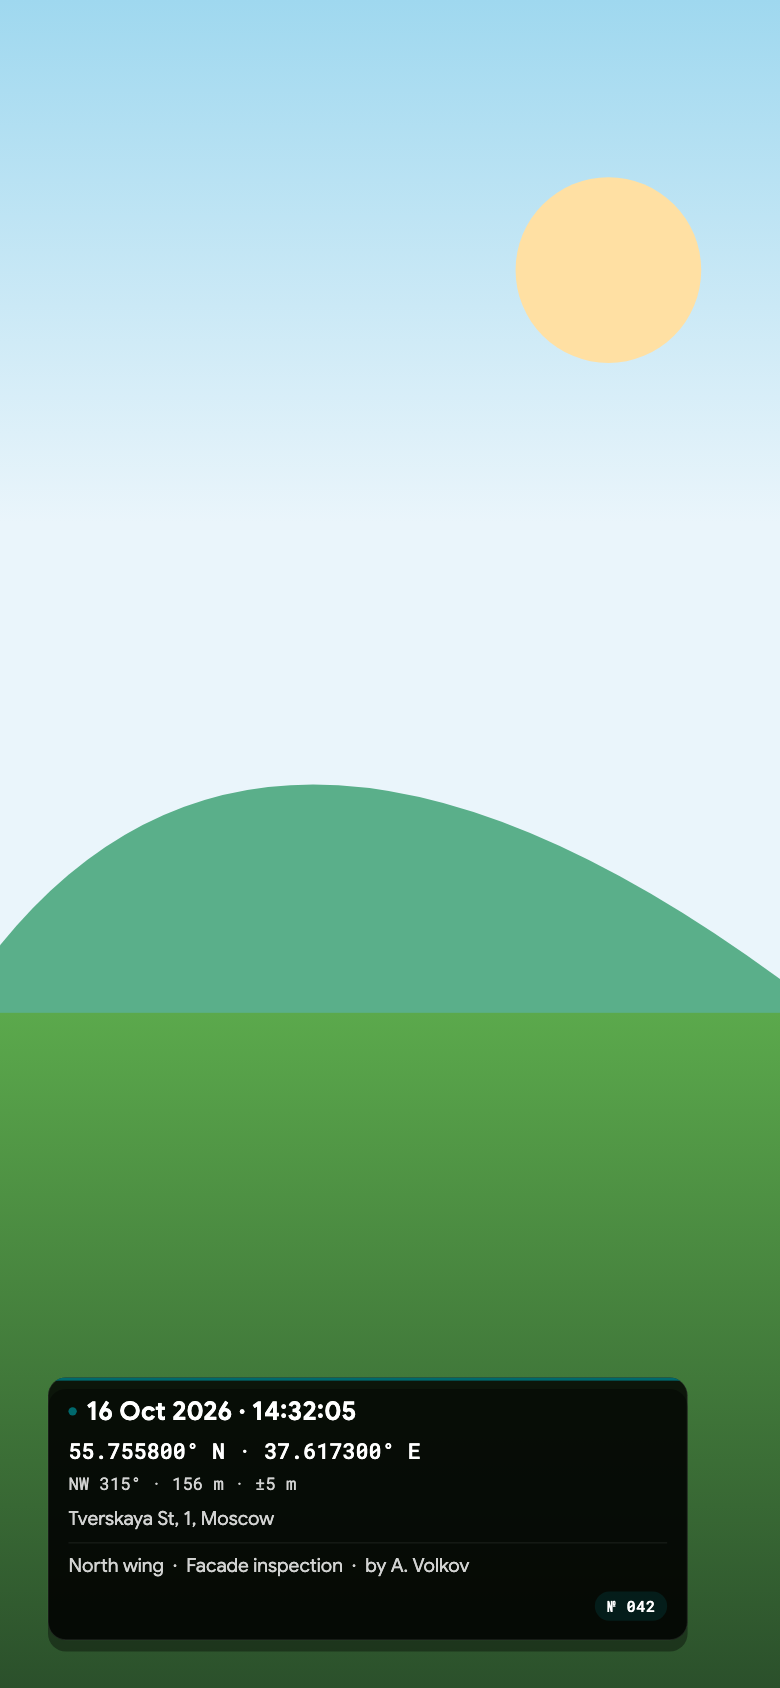
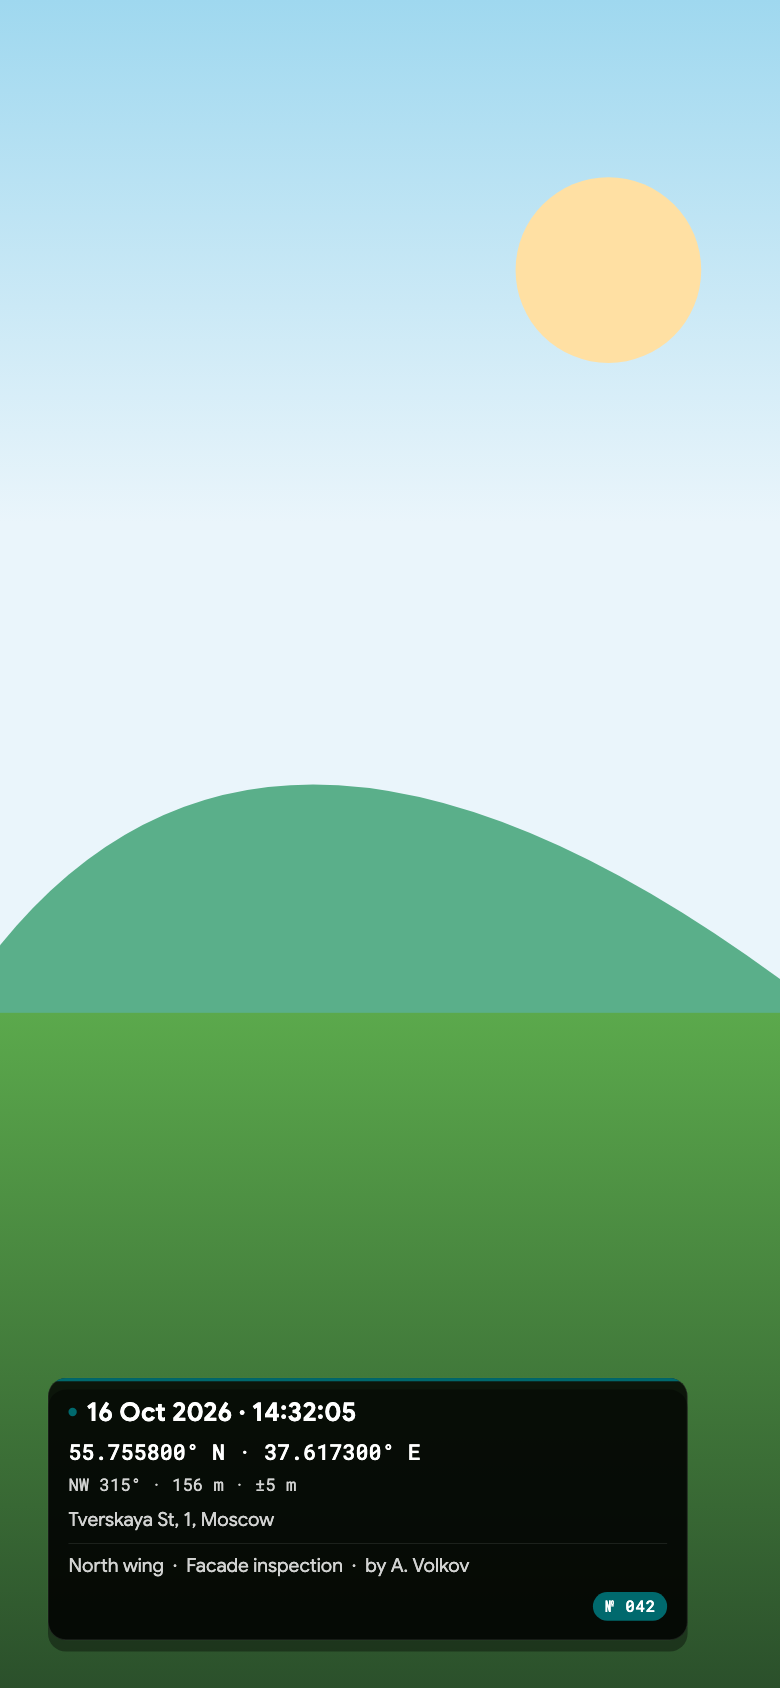
Fix gallery gestures and the watermark counter
- Remove the Hero flights from the gallery/viewer: they caused a hitch on
  close and animated every paged photo instead of the current one
- Handle the swipe-down dismiss through InteractiveViewer's interaction
  callbacks, so pinch-to-zoom no longer competes with a parent drag
- Swipe up now opens the photo info sheet, like Google Photos
- The counter badge uses a solid accent pill with contrasting text so the
  number is always readable

diff --git a/lib/screens/photo_detail_screen.dart b/lib/screens/photo_detail_screen.dart
@@ -1,4 +1,5 @@
 import 'dart:io';
+import 'dart:math' as math;
 
 import 'package:flutter/material.dart';
 import 'package:flutter/services.dart';
@@ -13,7 +14,8 @@ import '../utils/page_route.dart';
 import 'map_screen.dart';
 
 /// A Google-Photos-style viewer: full-screen photos, swipe sideways to change,
-/// swipe down to dismiss, pinch to zoom, tap to toggle the chrome.
+/// swipe down to dismiss, swipe up for info, pinch to zoom, tap to toggle the
+/// chrome.
 class PhotoDetailScreen extends StatefulWidget {
   const PhotoDetailScreen({
     super.key,
@@ -40,7 +42,7 @@ class _PhotoDetailScreenState extends State<PhotoDetailScreen>
     duration: const Duration(milliseconds: 220),
   );
   double _dragOffset = 0;
-  double _dragStart = 0;
+  double _springStart = 0;
 
   bool _zoomed = false;
   bool _chromeVisible = true;
@@ -53,7 +55,7 @@ class _PhotoDetailScreenState extends State<PhotoDetailScreen>
     _spring.addListener(() {
       setState(() {
         _dragOffset =
-            _dragStart * (1 - Curves.easeOutCubic.transform(_spring.value));
+            _springStart * (1 - Curves.easeOutCubic.transform(_spring.value));
       });
     });
   }
@@ -65,32 +67,40 @@ class _PhotoDetailScreenState extends State<PhotoDetailScreen>
     super.dispose();
   }
 
-  void _onDragStart(DragStartDetails details) {
-    if (_zoomed) return;
+  void _springBack() {
+    _springStart = _dragOffset;
+    _spring.forward(from: 0);
+  }
+
+  void _onDragStart() {
     _spring.stop();
   }
 
-  void _onDragUpdate(DragUpdateDetails details) {
-    if (_zoomed) return;
-    setState(() => _dragOffset += details.delta.dy);
+  void _onDragUpdate(double dy) {
+    setState(() => _dragOffset += dy);
   }
 
-  void _onDragEnd(DragEndDetails details) {
-    if (_zoomed) return;
-    final double velocity = details.primaryVelocity ?? 0;
-    if (_dragOffset.abs() > 120 || velocity.abs() > 700) {
+  void _onDragEnd(double velocity) {
+    // Swipe down: dismiss.
+    if (_dragOffset > 120 || velocity > 700) {
       HapticFeedback.selectionClick();
       Navigator.of(context).pop();
       return;
     }
-    _dragStart = _dragOffset;
-    _spring.forward(from: 0);
+    // Swipe up: open the info sheet.
+    if (_dragOffset < -90 || velocity < -700) {
+      _springBack();
+      _showInfo();
+      return;
+    }
+    _springBack();
   }
 
   double get _scrimOpacity =>
-      (1 - (_dragOffset.abs() / 420)).clamp(0.15, 1.0);
+      (1 - (math.max(0, _dragOffset) / 420)).clamp(0.15, 1.0);
 
-  double get _photoScale => (1 - (_dragOffset.abs() / 1800)).clamp(0.78, 1.0);
+  double get _photoScale =>
+      (1 - (_dragOffset.abs() / 1800)).clamp(0.78, 1.0);
 
   String get _locale => Localizations.localeOf(context).toString();
 
@@ -148,12 +158,12 @@ class _PhotoDetailScreenState extends State<PhotoDetailScreen>
       context: context,
       showDragHandle: true,
       isScrollControlled: true,
-      builder: (BuildContext context) => _InfoSheet(
+      builder: (BuildContext sheetContext) => _InfoSheet(
         record: record,
         onShowMap: record.hasLocation
             ? () {
-                Navigator.of(context).pop();
-                Navigator.of(this.context).push(
+                Navigator.of(sheetContext).pop();
+                Navigator.of(context).push(
                   sharedAxisRoute(MapScreen(
                     latitude: record.latitude!,
                     longitude: record.longitude!,
@@ -177,9 +187,6 @@ class _PhotoDetailScreenState extends State<PhotoDetailScreen>
         body: GestureDetector(
           behavior: HitTestBehavior.opaque,
           onTap: () => setState(() => _chromeVisible = !_chromeVisible),
-          onVerticalDragStart: _onDragStart,
-          onVerticalDragUpdate: _onDragUpdate,
-          onVerticalDragEnd: _onDragEnd,
           child: Stack(
             fit: StackFit.expand,
             children: <Widget>[
@@ -208,6 +215,9 @@ class _PhotoDetailScreenState extends State<PhotoDetailScreen>
                           setState(() => _zoomed = z);
                         }
                       },
+                      onDragStart: _onDragStart,
+                      onDragUpdate: _onDragUpdate,
+                      onDragEnd: _onDragEnd,
                     ),
                   ),
                 ),
@@ -313,10 +323,19 @@ class _TopBar extends StatelessWidget {
 }
 
 class _ZoomablePage extends StatefulWidget {
-  const _ZoomablePage({required this.record, required this.onZoomChanged});
+  const _ZoomablePage({
+    required this.record,
+    required this.onZoomChanged,
+    required this.onDragStart,
+    required this.onDragUpdate,
+    required this.onDragEnd,
+  });
 
   final PhotoRecord record;
   final ValueChanged<bool> onZoomChanged;
+  final VoidCallback onDragStart;
+  final ValueChanged<double> onDragUpdate;
+  final ValueChanged<double> onDragEnd;
 
   @override
   State<_ZoomablePage> createState() => _ZoomablePageState();
@@ -349,19 +368,28 @@ class _ZoomablePageState extends State<_ZoomablePage> {
 
   @override
   Widget build(BuildContext context) {
-    return Hero(
-      tag: 'photo_${widget.record.id}',
-      child: InteractiveViewer(
-        transformationController: _transform,
-        panEnabled: _zoomed,
-        minScale: 1.0,
-        maxScale: 5.0,
-        child: Center(
-          child: Image.file(
-            File(widget.record.path),
-            fit: BoxFit.contain,
-            filterQuality: FilterQuality.high,
-          ),
+    return InteractiveViewer(
+      transformationController: _transform,
+      panEnabled: _zoomed,
+      scaleEnabled: true,
+      minScale: 1.0,
+      maxScale: 5.0,
+      onInteractionStart: (ScaleStartDetails details) {
+        if (!_zoomed) widget.onDragStart();
+      },
+      onInteractionUpdate: (ScaleUpdateDetails details) {
+        if (_zoomed || details.pointerCount > 1) return;
+        widget.onDragUpdate(details.focalPointDelta.dy);
+      },
+      onInteractionEnd: (ScaleEndDetails details) {
+        if (_zoomed) return;
+        widget.onDragEnd(details.velocity.pixelsPerSecond.dy);
+      },
+      child: Center(
+        child: Image.file(
+          File(widget.record.path),
+          fit: BoxFit.contain,
+          filterQuality: FilterQuality.high,
         ),
       ),
     );

diff --git a/lib/widgets/stamp_overlay.dart b/lib/widgets/stamp_overlay.dart
@@ -235,17 +235,14 @@ class StampOverlay extends StatelessWidget {
       lines.add(Align(
         alignment: Alignment.centerRight,
         child: Container(
-          padding: EdgeInsets.symmetric(horizontal: 18 * s, vertical: 8 * s),
+          padding: EdgeInsets.symmetric(horizontal: 18 * s, vertical: 7 * s),
           decoration: BoxDecoration(
-            color: isCard
-                ? accent.withValues(alpha: 0.20)
-                : accent.withValues(alpha: 0.95),
+            color: accent,
             borderRadius: BorderRadius.circular(999),
           ),
           child: Text(
             l10n.stampCounter(data.counter.toString().padLeft(3, '0')),
-            style: _ts(24 * s, FontWeight.w500,
-                isCard ? onAccent : onAccent, const <Shadow>[],
+            style: _ts(25 * s, FontWeight.w600, onAccent, const <Shadow>[],
                 mono: true, letterSpacing: 1),
           ),
         ),

diff --git a/lib/screens/gallery_screen.dart b/lib/screens/gallery_screen.dart
@@ -124,15 +124,12 @@ class _PhotoTile extends StatelessWidget {
             ),
           );
         },
-        child: Hero(
-          tag: 'photo_${record.id}',
-          child: Image.file(
-            File(record.thumbPath),
-            fit: BoxFit.cover,
-            filterQuality: FilterQuality.low,
-            errorBuilder: (_, _, _) => const Center(
-              child: Icon(Icons.broken_image_outlined),
-            ),
+        child: Image.file(
+          File(record.thumbPath),
+          fit: BoxFit.cover,
+          filterQuality: FilterQuality.low,
+          errorBuilder: (_, _, _) => const Center(
+            child: Icon(Icons.broken_image_outlined),
           ),
         ),
       ),
